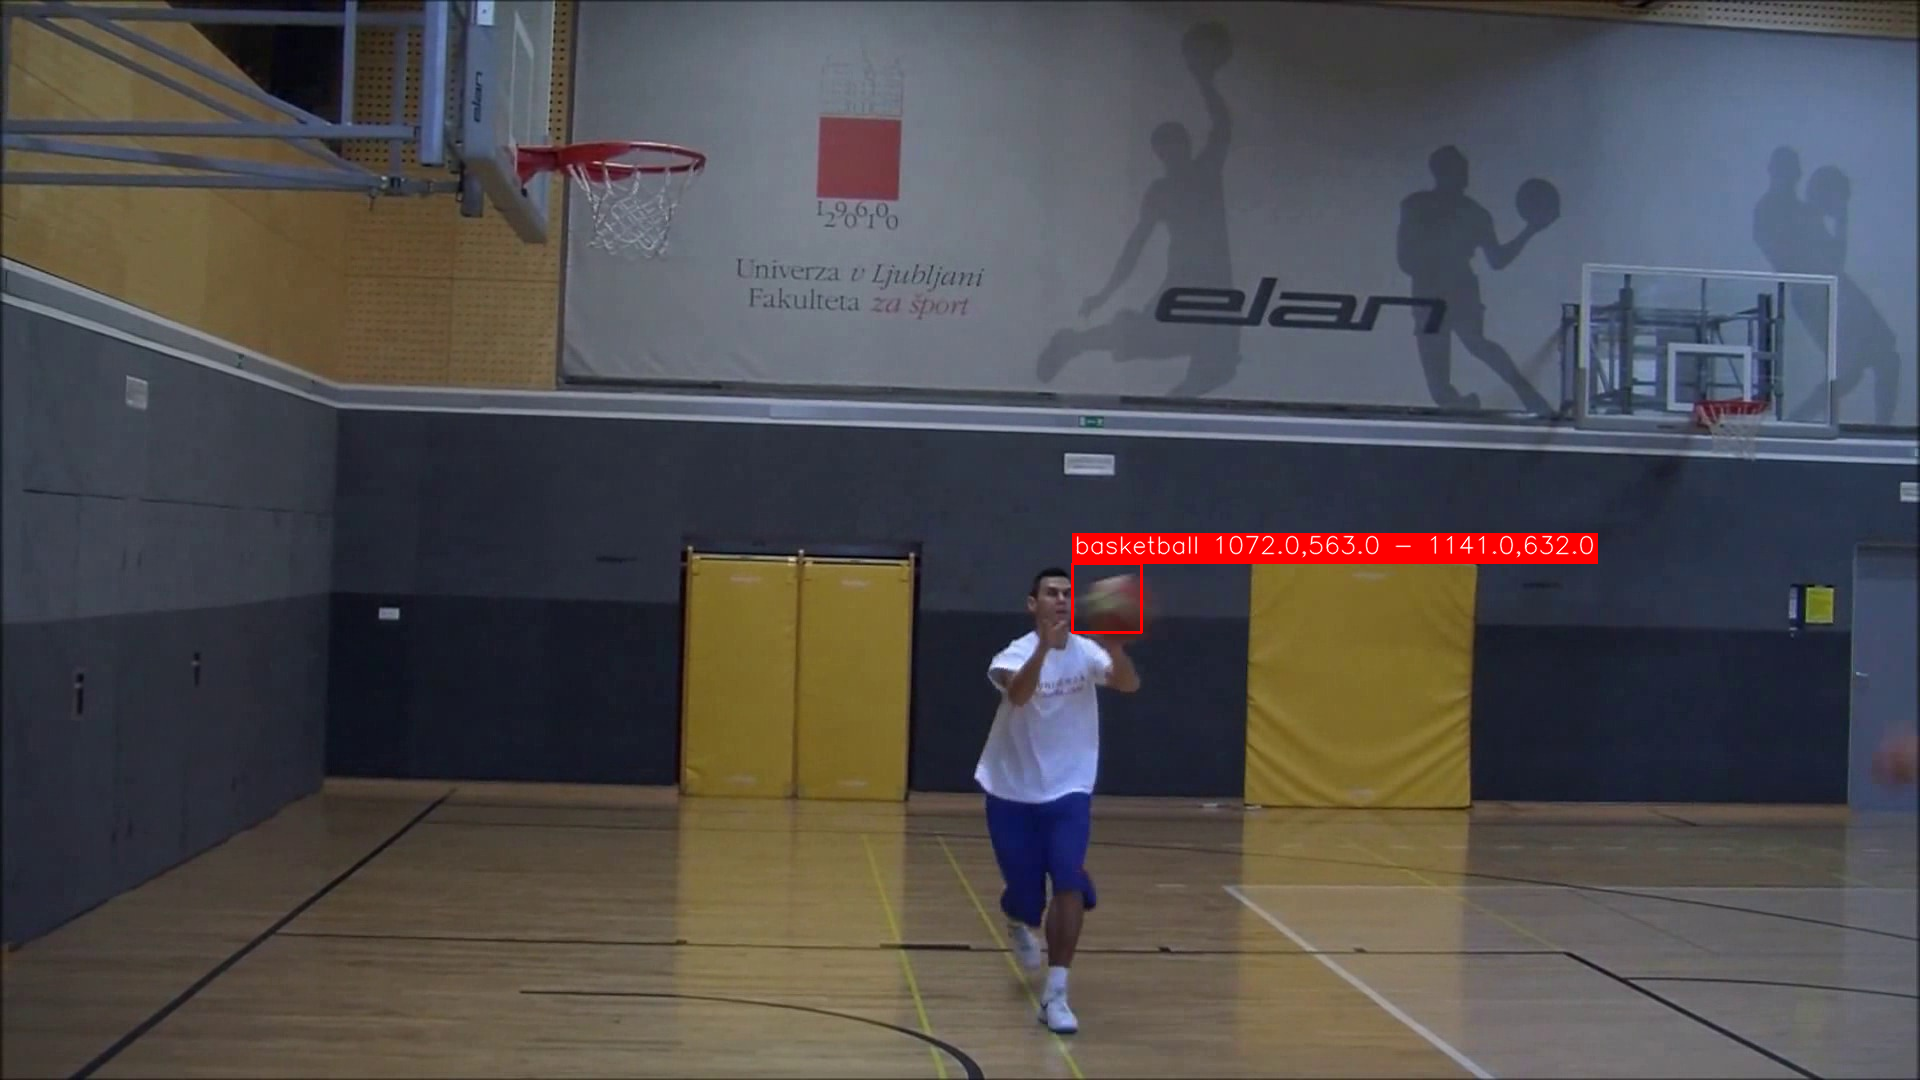
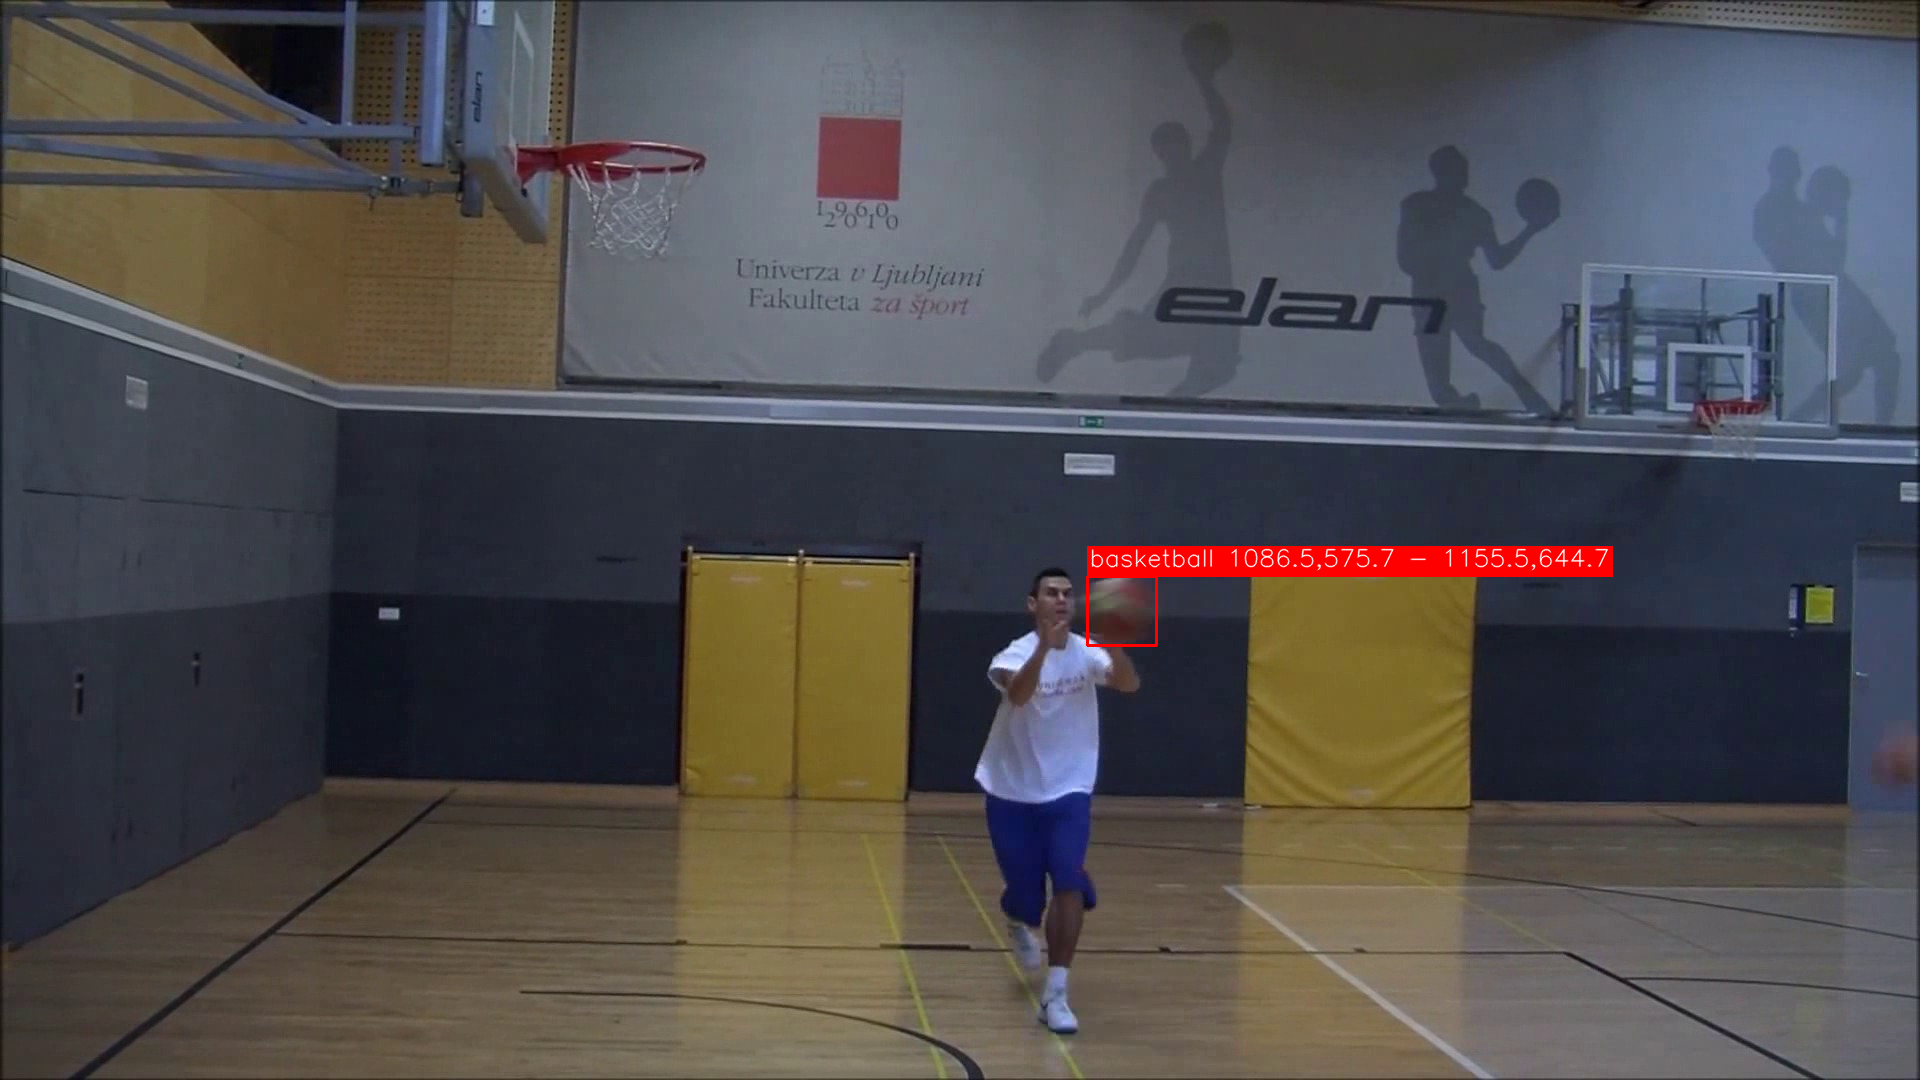
feat(task02): update annotations and restored boxes from CVAT export
- Re-export task 1 with save_images=true after manual CVAT annotation
- Restore rt-150 and plos02-055 boxes from new labels; refresh records

Changed region(s): [[0.5312, 0.4889, 0.8438, 0.55], [0.5625, 0.5806, 0.5938, 0.6111]]

diff --git a/submission/task02/restore_boxes.py b/submission/task02/restore_boxes.py
@@ -34,7 +34,7 @@ for stem in NAMES:
     y1 = (cy - bh / 2) * height
     x2 = (cx + bw / 2) * width
     y2 = (cy + bh / 2) * height
-    pixel_box = [round(x1, 2), round(y1, 2), round(x2, 2), round(y2, 2)]
+    pixel_box = [round(x1, 2) + 0.0, round(y1, 2) + 0.0, round(x2, 2) + 0.0, round(y2, 2) + 0.0]
 
     annotated = image.copy()
     p1 = (int(round(x1)), int(round(y1)))

diff --git a/submission/task02/README.md b/submission/task02/README.md
@@ -2,7 +2,7 @@
 
 在 CVAT 2.83.0 中为 4 张图标注 `basketball`，导出 `Ultralytics YOLO Detection 1.0` 数据集，再用导出坐标在 `rt-150`、`plos02-055` 原图上还原边界框。
 
-标注框取自仓库 `annotations.csv` 的人工核对结果，通过 CVAT API 写入任务后由 CVAT 导出；导出文件是本任务的提交物。
+标注框为在 CVAT 中人工核对的 `basketball` 框（`source=manual`），由 CVAT 导出；导出文件是本任务的提交物。
 
 ## CVAT 任务
 
@@ -16,15 +16,16 @@
 
 | 帧 | 文件 | CVAT 框 `xyxy` | 导出标签 |
 |---:|---|---|---|
-| 0 | `plos02-055.jpg` | `[1072, 563, 1141, 632]` | `0 0.576302 0.553241 0.035937 0.063889` |
-| 1 | `rt-125.jpg` | `[48, 303, 167, 425]` | `0 0.298611 0.568750 0.330556 0.190625` |
-| 2 | `rt-150.jpg` | `[0, 247, 31, 344]` | `0 0.043056 0.461719 0.086111 0.151562` |
+| 0 | `plos02-055.jpg` | `[1086.52, 575.7, 1155.52, 644.7]` | `0 0.583865 0.565000 0.035937 0.063889` |
+| 1 | `rt-125.jpg` | `[45.66, 303, 164.66, 425]` | `0 0.292111 0.568750 0.330556 0.190625` |
+| 2 | `rt-150.jpg` | `[0, 241.6, 35.7, 348.7]` | `0 0.049583 0.461172 0.099167 0.167344` |
 | 3 | `rt-200.jpg` | 无球，空标注 | 无标签文件 |
 
 ## 提交的导出
 
-- `cvat-export.zip`：CVAT 原始导出包
-- `yolo/`：解包后的内容
+- `CVAT.zip`：人工标注后在 CVAT 中直接导出的原始包（`save_images=false`，仅标签）
+- `cvat-export.zip`：按同一任务标注重新导出（`save_images=true`，含图像），作为本任务提交包
+- `yolo/`：`cvat-export.zip` 解包后的内容
 
 ```text
 yolo/
@@ -46,8 +47,8 @@ env -u PYTHONPATH .venv/bin/python submission/task02/restore_boxes.py
 
 | 图像 | 尺寸 | 归一化 `cx cy w h` | 还原像素框 `xyxy` |
 |---|---|---|---|
-| `rt-150.jpg` | 360×640 | `0.043056 0.461719 0.086111 0.151562` | `[0, 247, 31, 344]` |
-| `plos02-055.jpg` | 1920×1080 | `0.576302 0.553241 0.035937 0.063889` | `[1072, 563, 1141, 632]` |
+| `rt-150.jpg` | 360×640 | `0.049583 0.461172 0.099167 0.167344` | `[0, 241.6, 35.7, 348.7]` |
+| `plos02-055.jpg` | 1920×1080 | `0.583865 0.565000 0.035937 0.063889` | `[1086.52, 575.7, 1155.52, 644.7]` |
 
 输出：
 
